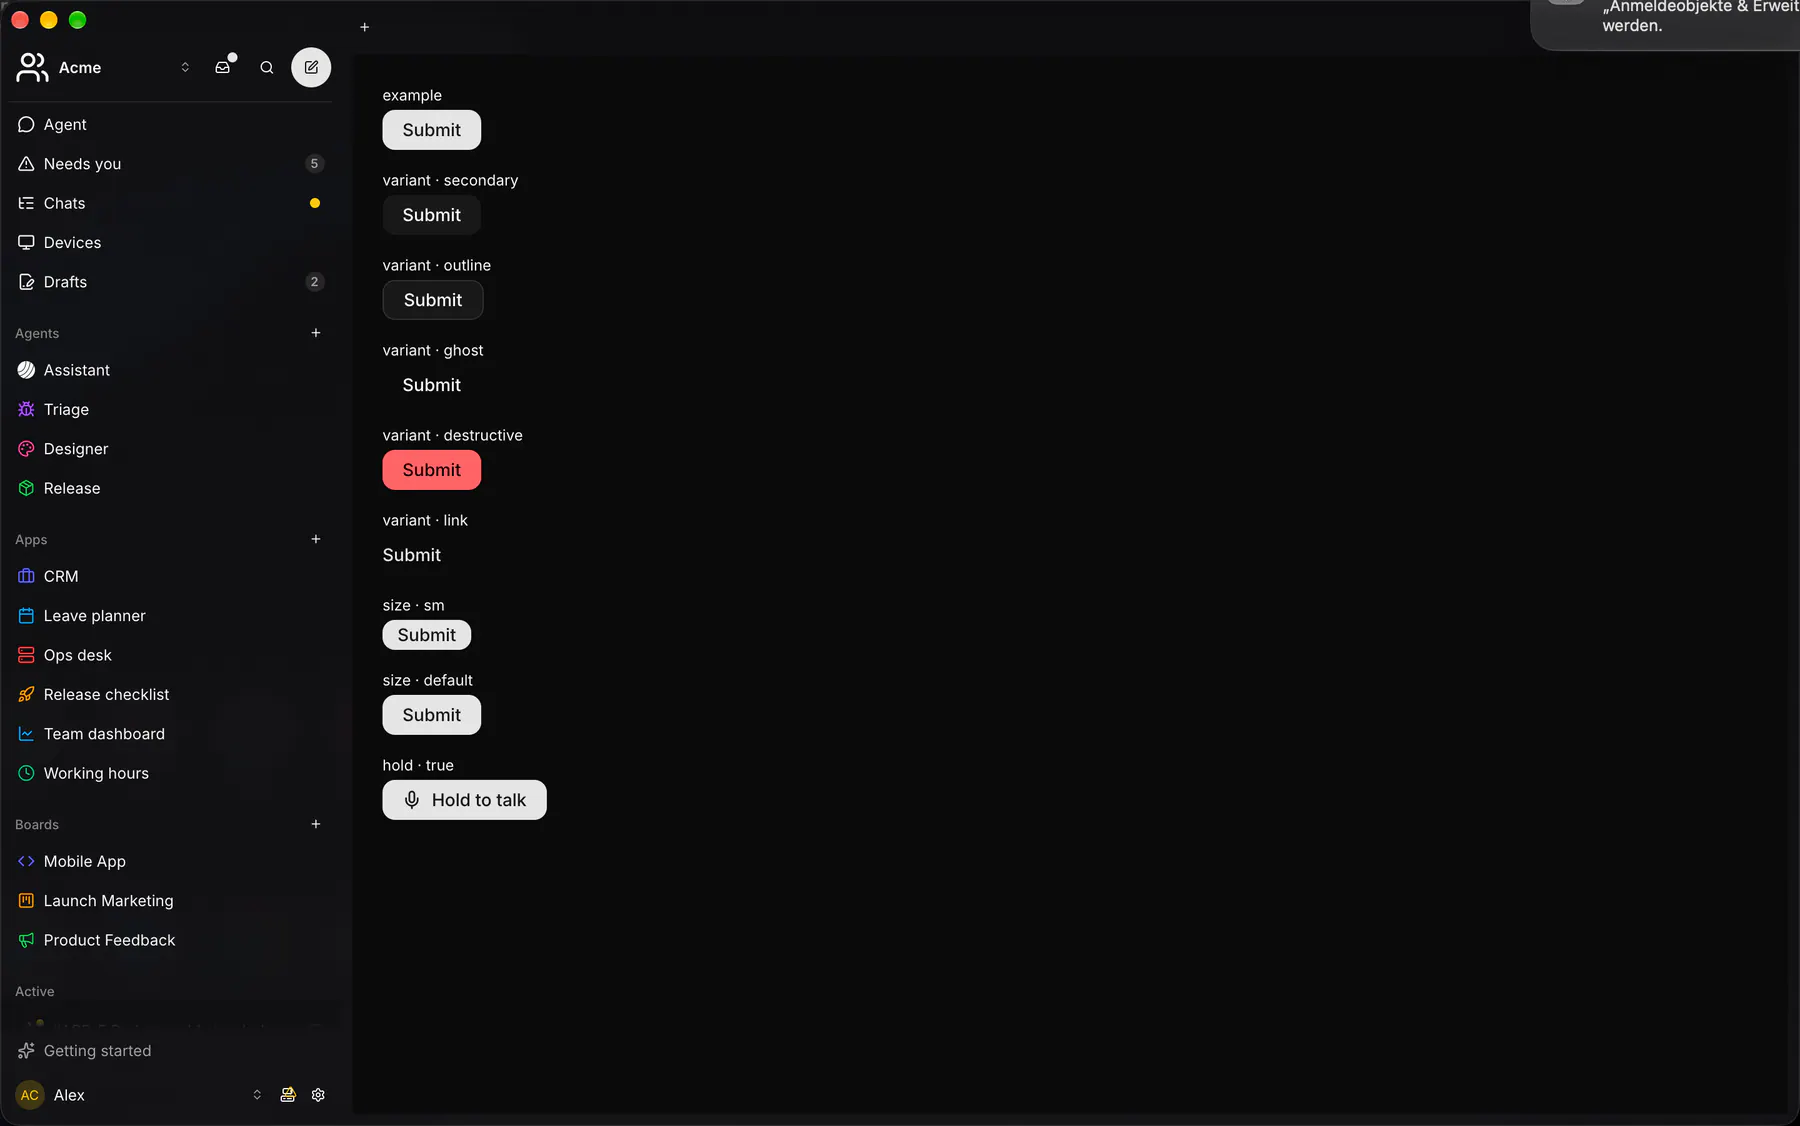
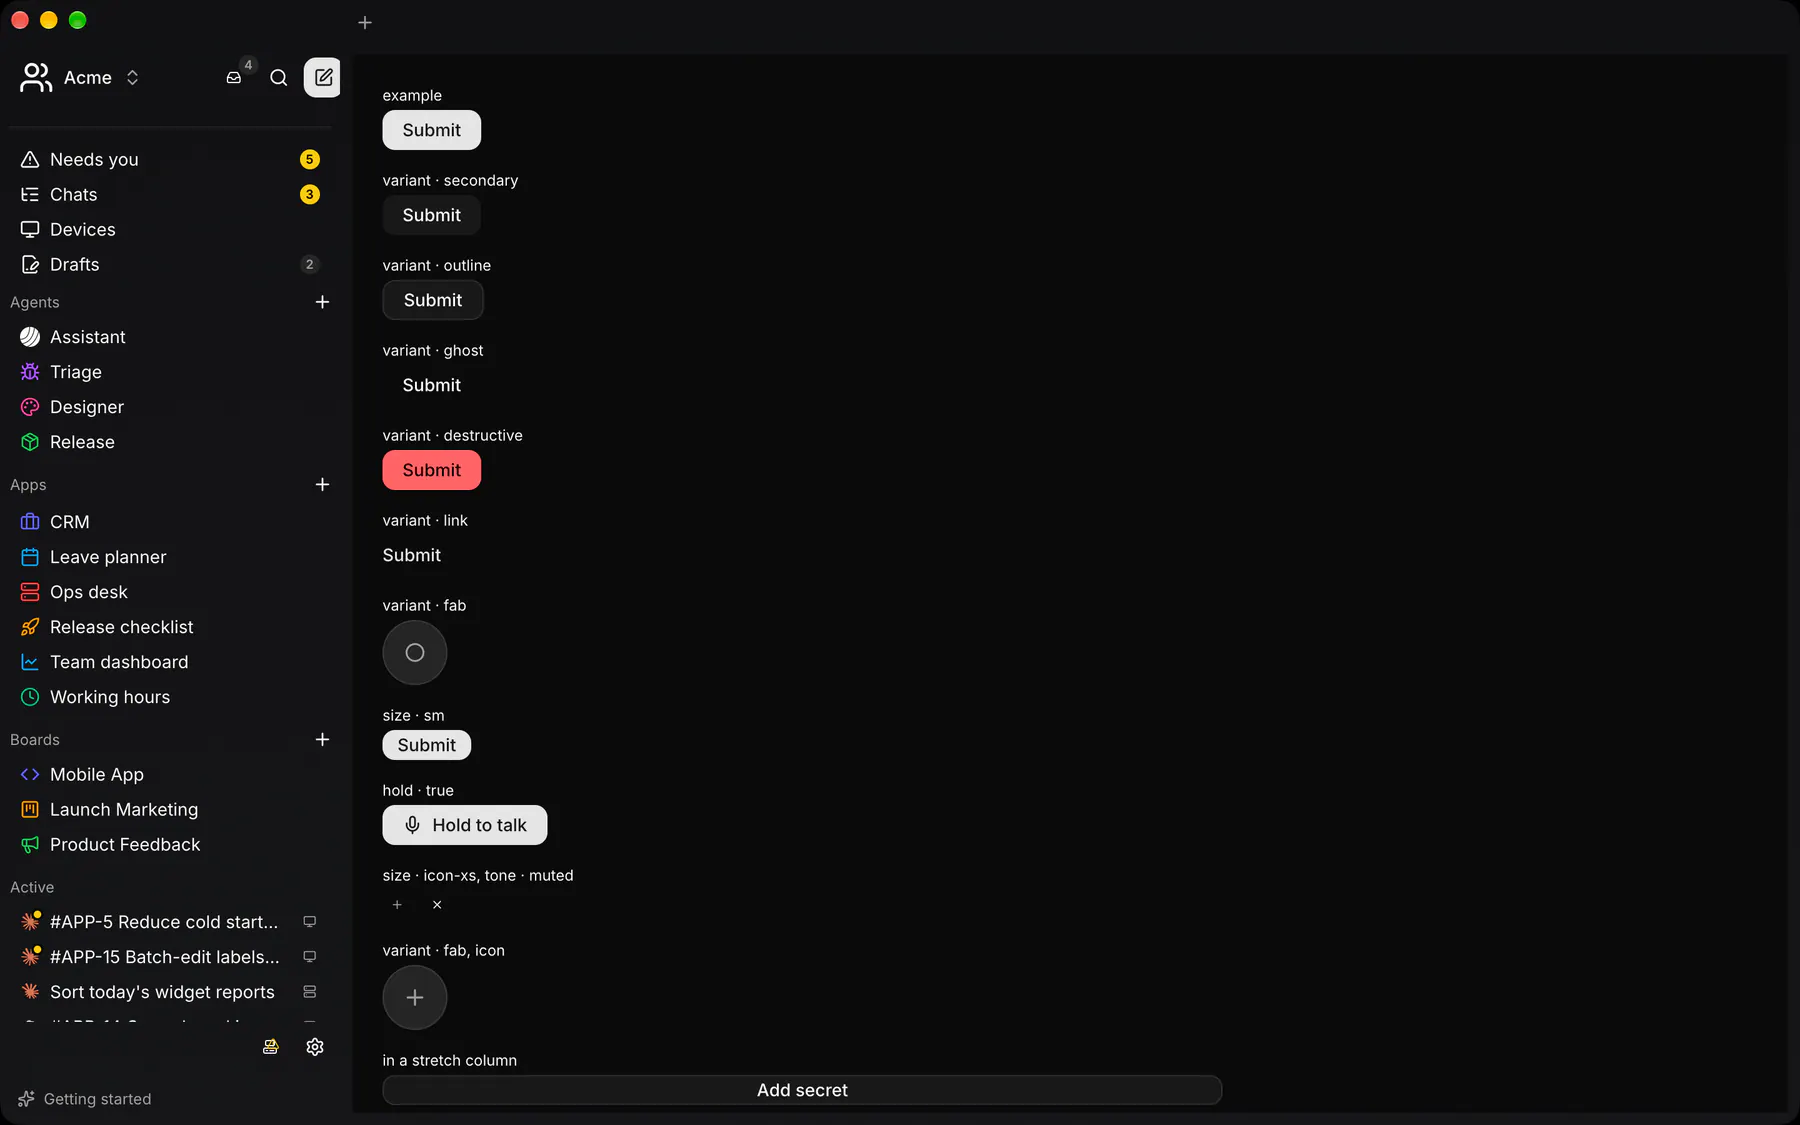
EXP-1837: no FAB over the dev specimen screens, EXP_DEV_ASSISTANT_OPEN for the widget capture; shots exponential-ui-button/desktop with the fab specimens

diff --git a/apps/desktop/crates/ui/src/assistant_fab.rs b/apps/desktop/crates/ui/src/assistant_fab.rs
@@ -53,6 +53,9 @@ pub(crate) struct AssistantFab {
     chat: Option<(String, Entity<crate::agent_screen::AgentScreenView>)>,
     /// The screen the widget opened over: any navigation closes it.
     opened_on: Option<Screen>,
+    /// DEV-ONLY: `EXP_DEV_ASSISTANT_OPEN=1` opens the widget once the
+    /// Assistant resolved (the desktop capture of the open widget).
+    dev_open: bool,
     refresh_queued: bool,
     _subscriptions: Vec<Subscription>,
 }
@@ -74,6 +77,7 @@ impl AssistantFab {
             open: false,
             chat: None,
             opened_on: None,
+            dev_open: std::env::var("EXP_DEV_ASSISTANT_OPEN").is_ok(),
             refresh_queued: false,
             _subscriptions: subscriptions,
         };
@@ -109,6 +113,11 @@ impl AssistantFab {
         if self.open && self.opened_on != screen {
             self.open = false;
         }
+        if self.dev_open && derived.is_some() && screen.is_some() {
+            self.dev_open = false;
+            self.open = true;
+            self.opened_on = screen;
+        }
         if derived != self.derived {
             self.derived = derived;
         }
@@ -119,6 +128,9 @@ impl AssistantFab {
     pub(crate) fn shows(&self, cx: &App) -> bool {
         let active_agent = match resolved_screen(&self.nav, cx) {
             Some(Screen::Agent { agent_id }) => Some(crate::agent_screen::resolve_agent_id(&agent_id, cx)),
+            // The dev-only specimen screens are catalogue pages (web draws
+            // them outside the team shell): no FAB over a specimen.
+            Some(Screen::ExponentialUiSpecimen { .. } | Screen::Specimen { .. }) => return false,
             _ => None,
         };
         assistant_fab_visible(true, self.derived.as_ref().map(|d| d.assistant_id.as_str()), active_agent.as_deref())

diff --git a/packages/shots/src/desktop-env.md b/packages/shots/src/desktop-env.md
@@ -64,6 +64,7 @@ device dialogs.
 | `EXP_DEV_WAKE_LISTENING` | `1` | **New (NEW-97).** Read as if the speech worker held the wake word's microphone open (voice.json `trayIcon` `listening`): the tray dot, the rail voice button's dot and the Wake word row's Listening. No microphone or speech worker. The rail button itself also needs this device as the member's voice device with the wake word on, and no tray host (Xvfb has none). |
 | `EXP_DEV_CHAT_CHILD` | `results` | Open a `chat:` screen on its Results tab instead of Conversation (`session_chat.rs`; results-tab.json). |
 | `EXP_DEV_INBOX_OPEN` | `1` | **New (#FEED-191).** Open the rail header's Inbox popover on launch, over whatever the window opens on. `EXP_DEV_TOOL=inbox` does it over Home. |
+| `EXP_DEV_ASSISTANT_OPEN` | `1` | **New (#EXP-1837).** Open the Assistant FAB's widget once the viewer's Assistant resolved, over whatever the window opens on (`assistant_fab.rs`). |
 | `EXP_DEV_SCROLL_TO` | `script-card` | **New (EXP-1259).** Park a `session:` screen's transcript (always the full transcript since EXP-1294) with its FIRST code-mode Script card near the top of the viewport (one row of lead-in above it) instead of on the tail (`screens::dev_scroll_to_script_card`). Re-applied only while that row's index moves (the replay landing rows above it), so a wheel is never fought. The `script-card` capture pairs it with the `steering` drive. **EXP-1558:** the parked card is then CENTRED in the viewport (web's `centreCard`); `work-card` and `comment-call-card` park on those cards the same way, and `end` parks the issue page (`issue-comments`) and the settings column (`settings-assistant-meeting`) at their end, re-applied while the content still grows (`screens::dev_park_at_end`). |
 | `EXP_DEV_COMPOSER_MENU` | `implement-issue` \| `dialog-implement-issue` \| `temporary` | **New (EXP-1259).** Open Home's "+" menu ONCE, as a click would, with its first row selected, as a hover would, so the Implement issue submenu (THE search list) is open beside it (`screens::take_dev_composer_menu`, `controls::PointerMenu::dev_open`). It waits for the full menu (the launch cluster), synced shapes and a laid-out +; after that it closes like any menu. Pairs with `EXP_DEV_SCREEN=home` (the `composer-menu` capture). **N-6:** `dialog-implement-issue` is the same for the composer DIALOG's "+" — pair it with `EXP_DEV_DIALOG=run:<issue>`; the dialog's menu opens in a menu window over the dialog (`crates/ui/src/menu_window.rs`), which is what the `composer-dialog-menu` capture photographs. **EXP-1551:** `temporary` starts Home's agent row on Temporary session and opens the "+" menu at its ROOT with no row lit (`PointerMenu::dev_steps(0)`): the one state all four clients photograph for `composer-menu`. |
 | `EXP_DEV_COMPOSER_TEXT` | free text | **New (EXP-1557).** Type this text into Home's composer ONCE, as keystrokes would, on the first page composer with a team and synced shapes (`screens::take_dev_composer_text`, `MentionInput::dev_type`): `Explain #APP` opens THE `#` search list at the caret, its input prefilled with `APP`. Pairs with `EXP_DEV_SCREEN=chat` (the `search-list` capture). **EXP-1558:** a `#` waits for the composer's first paint, so the list opens at the caret; `/` opens the prompts menu (`composer-slash-menu`); a session view (`chat:`/`session:`) types it into its own composer once its row synced (`session-slash-menu`). |
